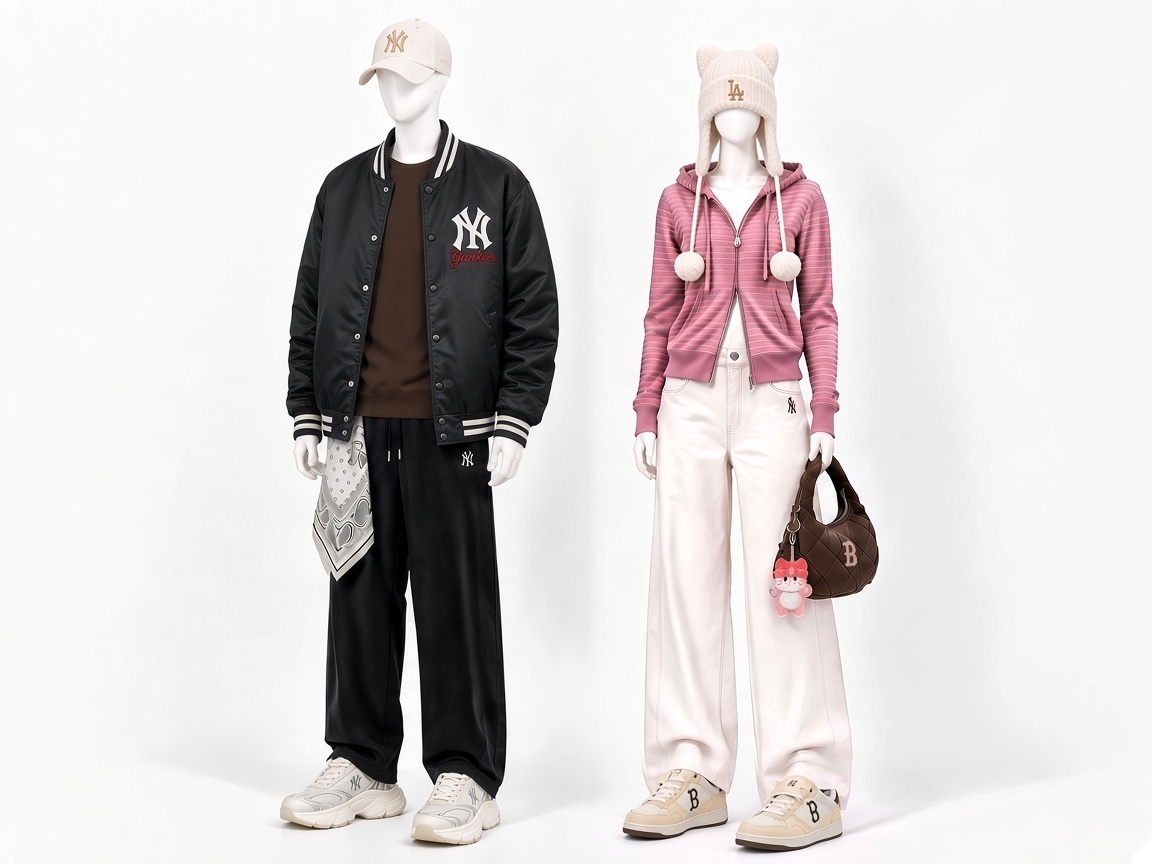
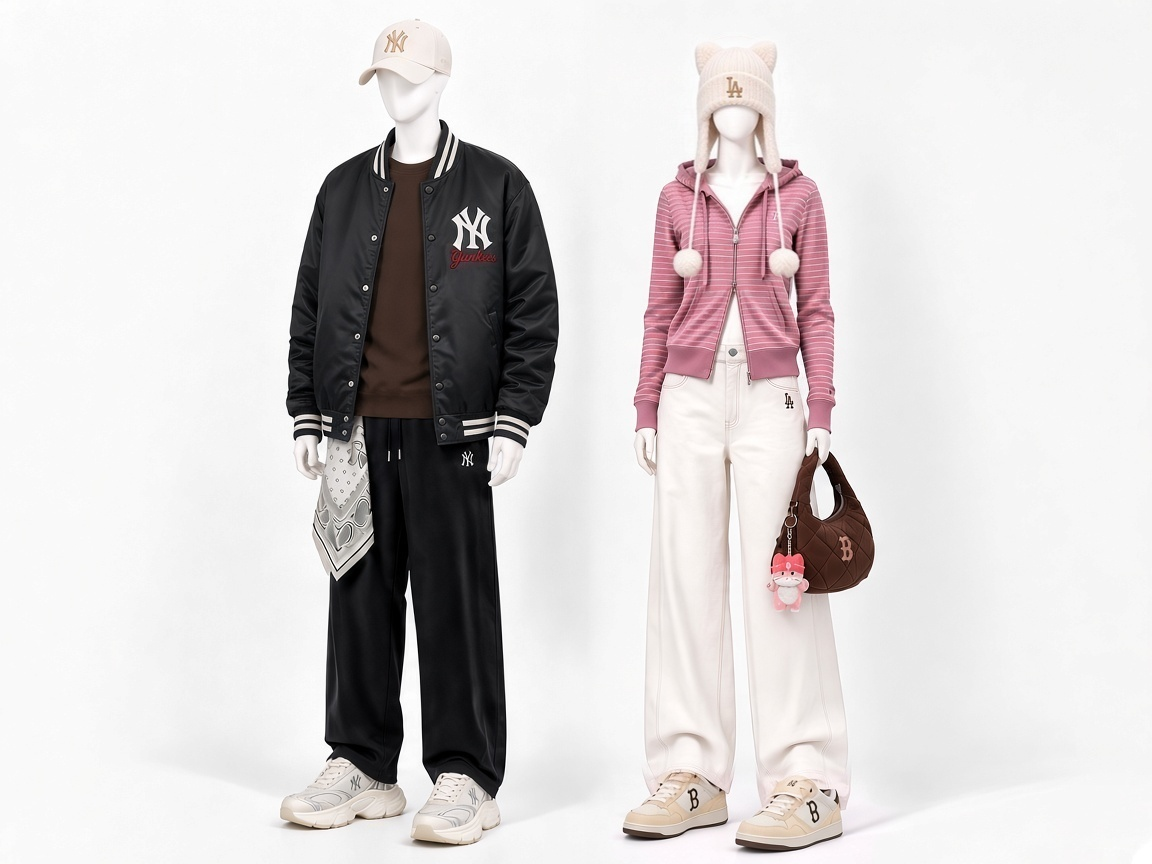
Fix M11/M14 and M02/M05 women colour to match M10

diff --git a/nov-1st-dp-guideline/index.html b/nov-1st-dp-guideline/index.html
@@ -981,7 +981,7 @@
         main: {
           status: "live",
           badge: "Locked pair",
-          image: "m11-m14-main-pair.jpg",
+          image: "m11-m14-main-pair.jpg?v=2",
           imageW: 1152, imageH: 864,
           alt: "Main mannequin pair for M11 / M14: men left in brown SF Giants pink bear sweatshirt over a white oversized tee, black NY pants, cream corduroy NY cap and silver/cream chunky NY sneakers; women right in pink stripe double-zip hoodie, ivory wide jeans, cream LA cat-ear trapper beanie, brown quilted B bag with pink cat keyring and tan NY sneakers",
           figures: [
@@ -1083,7 +1083,7 @@
         main: {
           status: "live",
           badge: "Locked pair",
-          image: "m02-m05-main-pair.jpg",
+          image: "m02-m05-main-pair.jpg?v=2",
           imageW: 1152, imageH: 864,
           alt: "Main mannequin pair for M02 / M05: men left in open black NY Yankees varsity bomber over a plain brown crewneck, black NY pants, cream NY corduroy cap, white paisley bandana on the belt loop and silver/cream chunky NY sneakers; women right in pink stripe double-zip hoodie, ivory wide jeans, cream LA cat-ear trapper beanie, brown quilted B bag with pink cat keyring and cream/brown Boston B sneakers",
           figures: [
